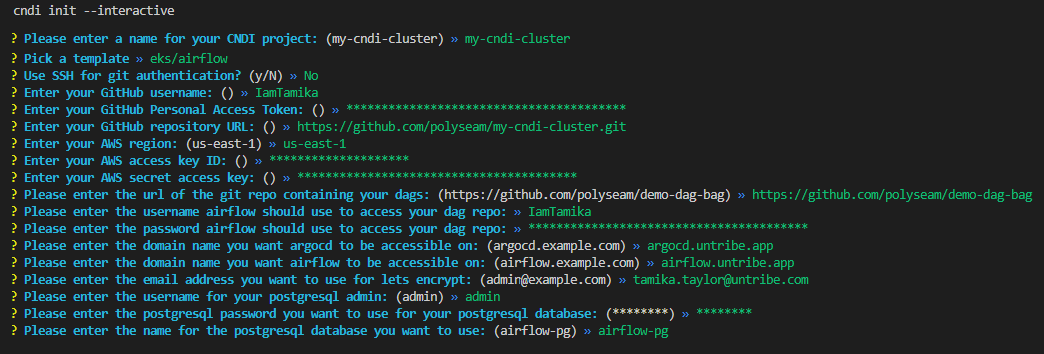
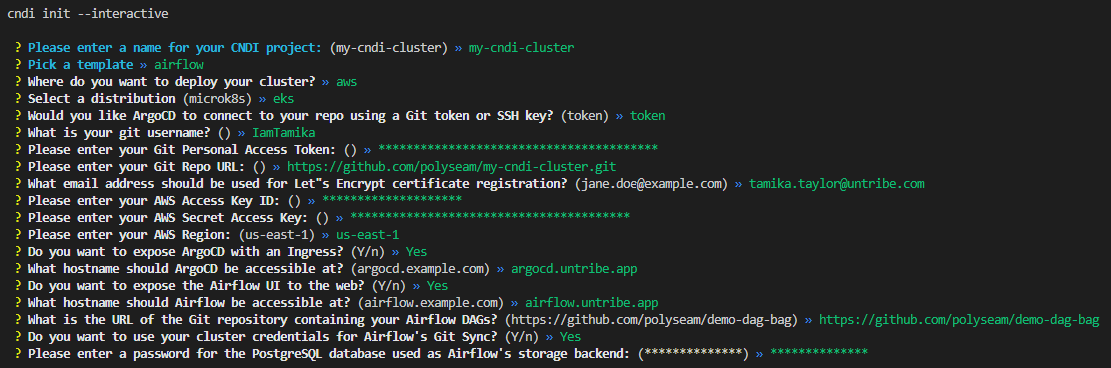
update prompt image

Changed region(s): [[0.0, 0.0932, 1.0, 0.9944], [0.0, 0.0, 0.1839, 0.0621]]

diff --git a/docs/walkthroughs/eks/airflow.md b/docs/walkthroughs/eks/airflow.md
@@ -70,65 +70,69 @@ cndi init --interactive
 You will get an interactive prompt where you'll name your project, then one to
 specify the CNDI template you want.
 
-For this project select the `eks/airflow` Template.
+For this project select the `airflow` Template.
 
 ```shell
 ? Pick a template
-   aws/basic
-   gce/basic
-   avm/basic
- ❯ eks/airflow
-   avm/airflow
-   gce/airflow
+   cnpg
+   neo4j
+   basic
+ ❯ airflow
 ```
 
-Below is the list of all of the interactive prompt values that should be
-supplied for this project:
+## CNDI Project Configuration
 
-- **Cndi Project Name**: _name of project_
-- **Template**: _list of templates to choose from_
+Please enter the required information for your CNDI project setup.
 
----
+### Project Setup
 
-- **GitHub Username**: _a user's handle on GitHub._
-- **GitHub Repository URL**: _the url for the GitHub repository that will hold
-  all cluster configuration_
-- **GitHub Personal Access Token**: _the access token CNDI will use to access
-  your repo for cluster creation and synchronization_
+- **Cndi Project Name***: _Enter the name of your CNDI project (e.g.,
+  "my-cndi-cluster")._
+- **Template**: _Choose a template from the following list: [list templates
+  here]._
 
----
+### GitHub Configuration
 
-- **AWS Access key ID**: _access keys are long-term credentials for an IAM user_
-- **AWS Secret Access key**: _access keys are long-term credentials for an IAM
-  user_
-- **AWS Region**: _region where the infastructure is being created_
+- **GitHub Username***: _Enter your GitHub username (e.g., "johndoe")._
+- **GitHub Repository URL***: _Enter the URL for the GitHub repository that will
+  hold all cluster configurations (e.g.,
+  "https://github.com/username/repository")._
+- **GitHub Personal Access Token***: _Enter the access token for CNDI to access
+  your GitHub repository._
 
----
+### AWS Configuration
 
-- **Git Username for Airflow DAG Storage**: _a user's handle on GitHub used to
-  synchronize Airflow DAGs_
-- **Git Password for Airflow DAG Storage**: _a personal access token used to
-  synchronize Airflow DAGs_
-- **Git Repo for Airflow DAG Storage**: _url for repo where your Airflow DAGs
-  will be stored_
+- **AWS Region***: _Select the AWS region where the infrastructure will be
+  created (e.g., "us-east-1")._
+- **AWS Access key ID***: _Enter your AWS access key ID._
+- **AWS Secret Access key***: _Enter your AWS secret access key._
 
----
+### Airflow DAG Storage
 
-- **Domain name you want ArgoCD to be accessible on**: _domain where ArgoCD will
-  be hosted_
-- **Domain name you want Airflow to be accessible on**: _domain where Airflow
-  will be hosted_
+- **Git Username for Airflow DAG Storage***: _Enter the GitHub username for
+  synchronizing Airflow DAGs._
+- **Git Password for Airflow DAG Storage***: _Enter the access token or password
+  for DAG synchronization._
+- **Git Repo for Airflow DAG Storage***: _Enter the URL for the repository where
+  your Airflow DAGs will be stored._
 
----
+### Domain Configuration
 
-- **Email address you want to use for lets encrypt:** _an email for lets encrypt
-  to use when generating certificates_
-- **Username you want to use for airflow cnpg database:** _username you want to
-  use for airflow database_
-- **Password you want to use for airflow cnpg database:** _password you want to
-  use for airflow database_
-- **Name of the postgresql database you want to use for airflow cnpg database:**
-  _name of the postgresql database you want to use for airflow cnpg database_
+- **Domain name for ArgoCD***: _Enter the domain name where ArgoCD will be
+  accessible (e.g., "argocd.example.com")._
+- **Domain name for Airflow***: _Enter the domain name where Airflow will be
+  accessible (e.g., "airflow.example.com")._
+
+### Certificate and Database Configuration
+
+- **Email for Let's Encrypt***: _Enter the email address for Let's Encrypt
+  certificate notifications._
+- **PostgreSQL Username for Airflow***: _Enter the username for the Airflow
+  database._
+- **PostgreSQL Password for Airflow***: _Enter the password for the Airflow
+  database._
+- **PostgreSQL Database Name for Airflow***: _Enter the name of the PostgreSQL
+  database for Airflow._
 
 ![AWS instances dashboard](/docs/walkthroughs/eks/img/cndi-init-interactive.png)
 
